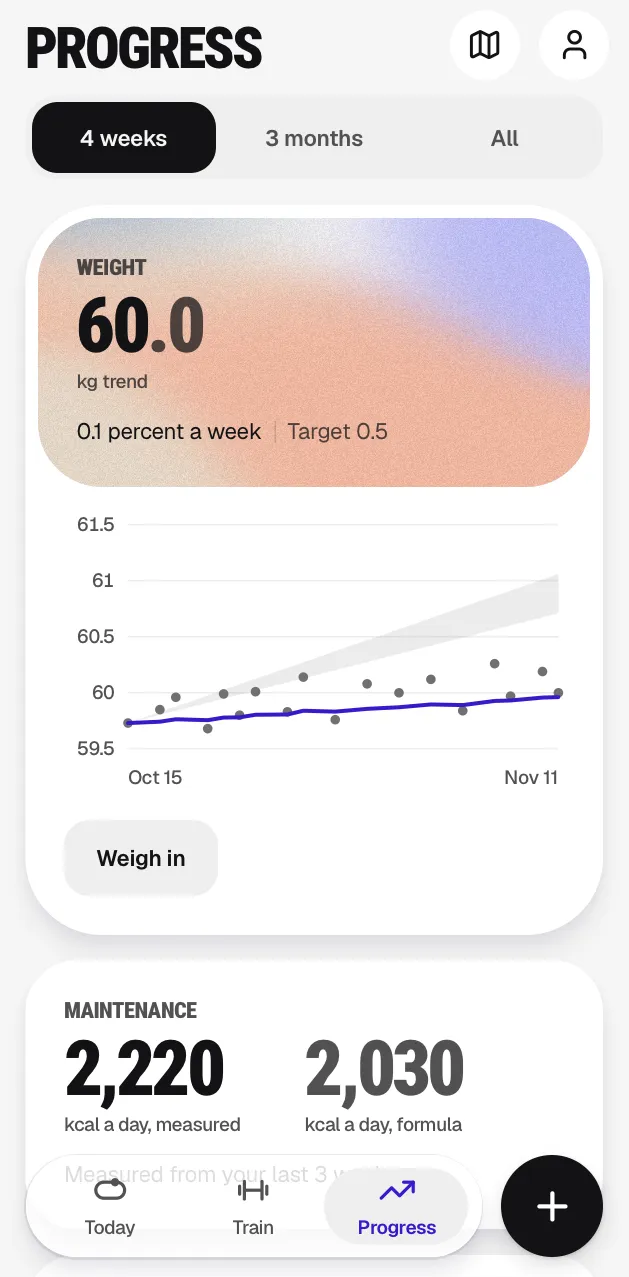
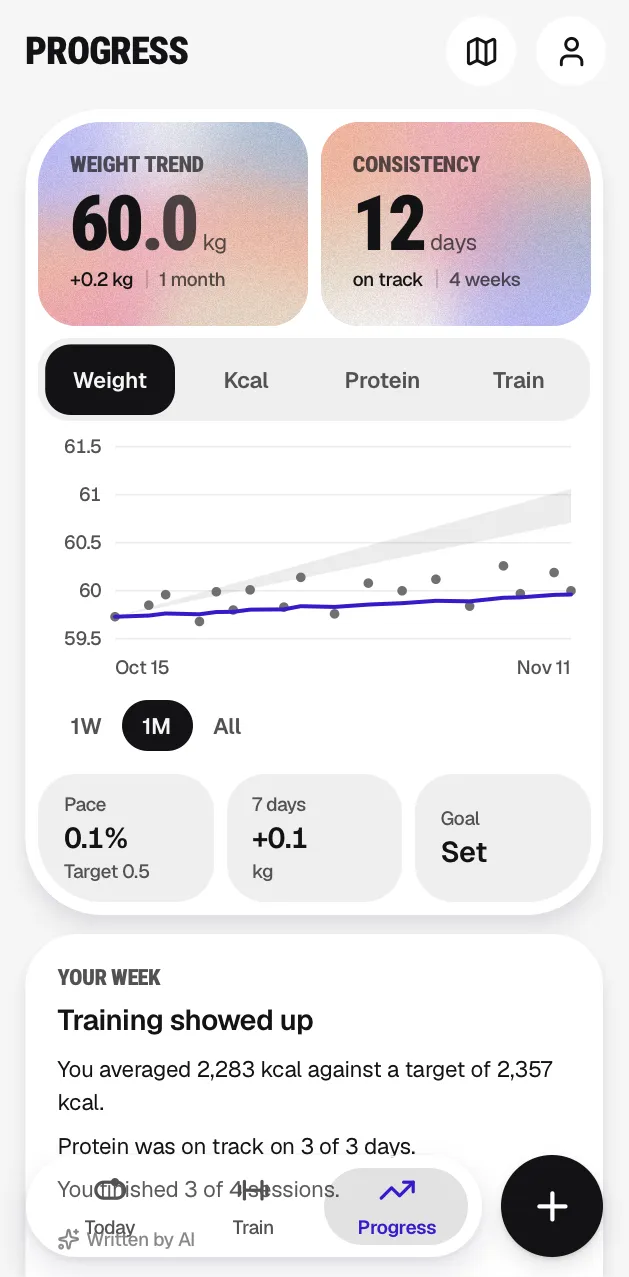
feat(landing): the phone screens remade from the current app (Tray), and the Progress alt names the 12 days on track

diff --git a/src/lib/i18n/en.ts b/src/lib/i18n/en.ts
@@ -100,7 +100,7 @@ export const en = {
       thai: 'Search in Thai script: rice noodles, pad kee mao, boat noodles and more, each with its calories',
       supplement: 'Whey protein, two scoops with 242 ml of whole milk: 393 kcal and 55.9 g protein',
       train: 'Train: four strength sessions a week, adding 137 kcal a day on average',
-      progress: 'Progress: the weight trend at 60 kg, gaining 0.1 percent a week against a target of 0.5',
+      progress: 'Progress: the weight trend at 60 kg and 12 days on track, gaining 0.1 percent a week against a target of 0.5',
       map: 'The food map around Bangkok: photo pins with each friend\'s avatar, one with 2 more at the same spot, and Search for friends below',
       checkin: 'The weekly check-in proposing a raise to 2,560 kcal on training days and 2,320 on rest days',
     },
